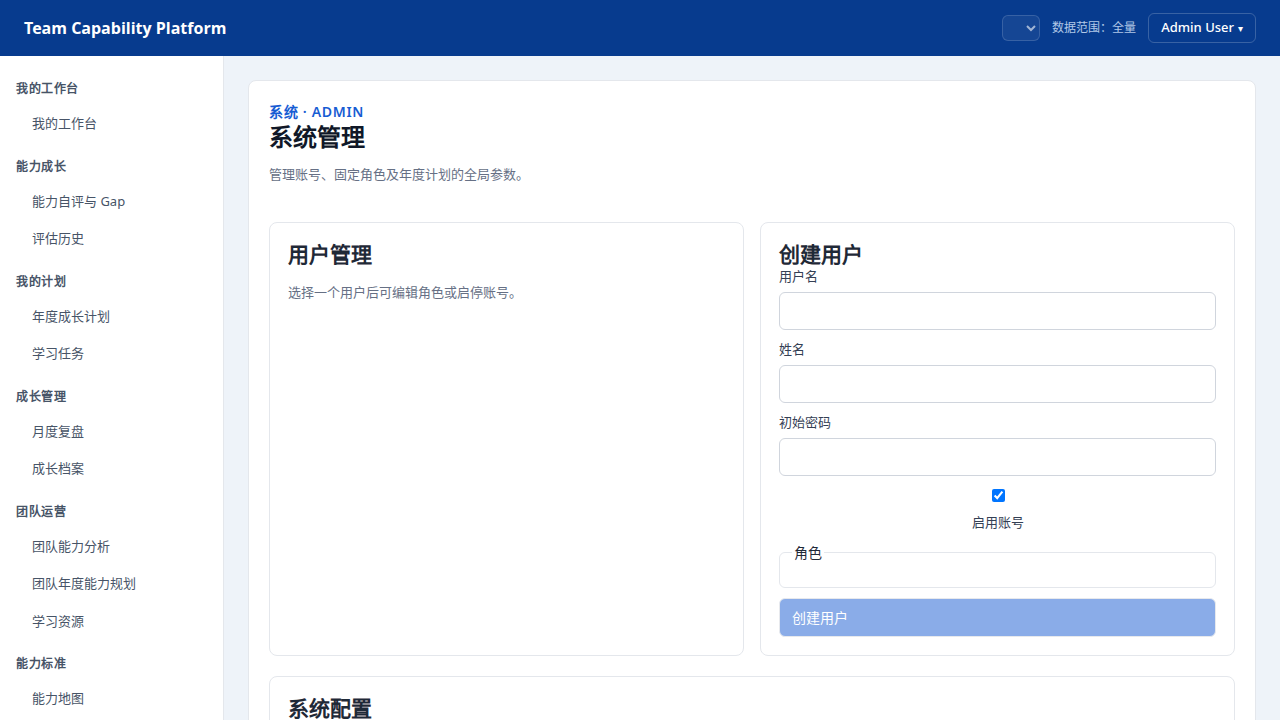
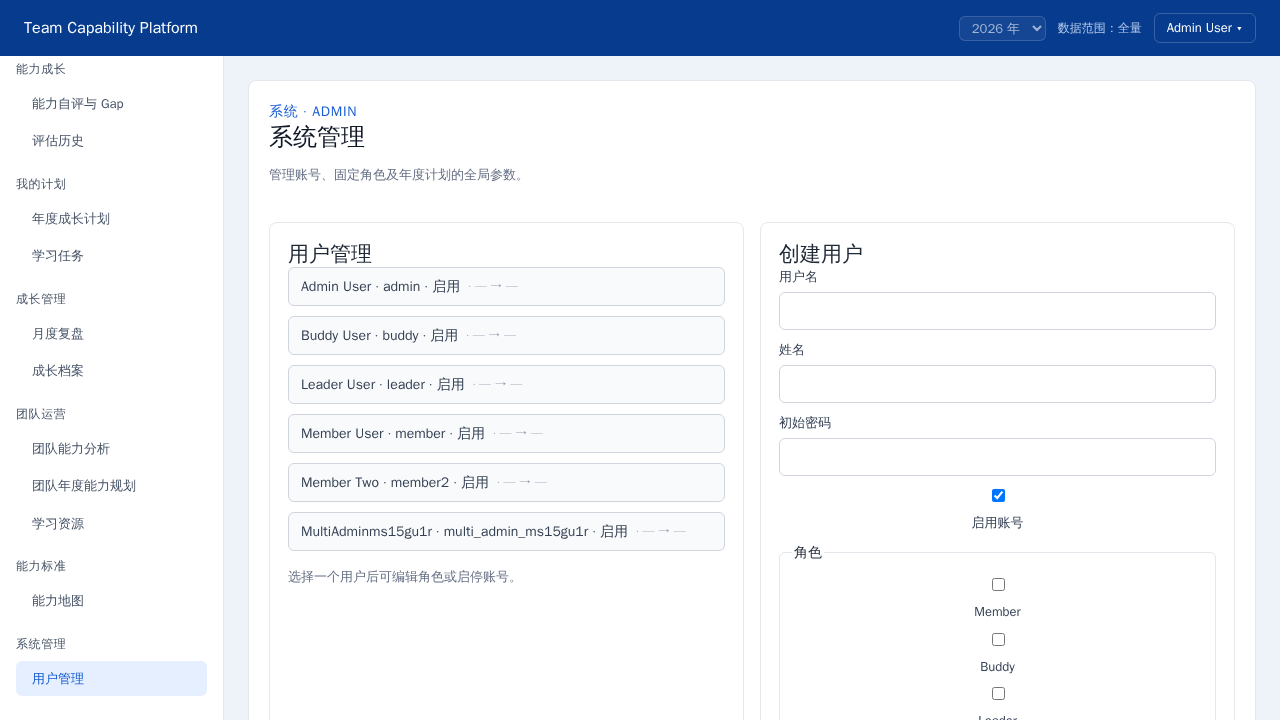
fix(issue-47): make admin sidebar independently scrollable

diff --git a/frontend/tests/e2e/features/logout-admin-nav.spec.ts b/frontend/tests/e2e/features/logout-admin-nav.spec.ts
@@ -37,32 +37,84 @@ test.describe('logout and admin navigation', () => {
   })
 
   test('Admin can navigate to system users via sidebar', async ({ page }) => {
+    // Desktop viewport at 1280×720 so sidebar content overflows
+    await page.setViewportSize({ width: 1280, height: 720 })
+
     await loginAs(page, 'admin')
     await page.goto('/capability/model')
     await expect(page.getByRole('heading', { name: '能力地图' })).toBeVisible()
 
-    // Sidebar is independently scrollable (overflow-y:auto in grid row)
     const sidebar = page.locator('.app-sidebar')
     await expect(sidebar).toBeVisible()
 
-    // Scroll the 系统管理 link into view if needed
-    const adminLink = sidebar.getByRole('link', { name: '用户管理' })
-    await adminLink.scrollIntoViewIfNeeded()
-    await expect(adminLink).toBeVisible()
-
-    // Sidebar has scrollable overflow (its scrollHeight > clientHeight when content exceeds viewport)
-    const hasScroll = await sidebar.evaluate(
-      (el) => el.scrollHeight > el.clientHeight,
+    // 1. Sidebar overflow-y is auto or scroll
+    const overflowY = await sidebar.evaluate(
+      (el) => getComputedStyle(el).overflowY,
     )
-    // Either scrollable or all content fits — both are valid configurations
-    expect(typeof hasScroll).toBe('boolean')
+    expect(['auto', 'scroll']).toContain(overflowY)
 
+    // 2. Sidebar has scrollable overflow (content taller than visible area)
+    const scrollHeight = await sidebar.evaluate((el) => el.scrollHeight)
+    const clientHeight = await sidebar.evaluate((el) => el.clientHeight)
+    expect(scrollHeight).toBeGreaterThan(clientHeight)
+
+    // 3. Record window and content positions before sidebar scrolling.
+    //    Content may legitimately be 0 when this page does not overflow.
+    const content = page.locator('.app-content')
+    const windowScrollYBefore = await page.evaluate(() => window.scrollY)
+    const contentScrollTopBefore = await content.evaluate((el) => el.scrollTop)
+
+    // 4. Actively scroll the sidebar to reveal lower items
+    await sidebar.evaluate((el) => {
+      el.scrollTop = el.scrollHeight
+    })
+
+    // 5. Sidebar scrollTop > 0 after active scroll
+    const sidebarScrollTopAfter = await sidebar.evaluate((el) => el.scrollTop)
+    expect(sidebarScrollTopAfter).toBeGreaterThan(0)
+
+    // 6. window.scrollY unchanged by sidebar scroll
+    const windowScrollYAfter = await page.evaluate(() => window.scrollY)
+    expect(windowScrollYAfter).toBe(windowScrollYBefore)
+
+    // 7. .app-content.scrollTop unchanged by sidebar scroll
+    const contentScrollTopAfter = await content.evaluate((el) => el.scrollTop)
+    expect(contentScrollTopAfter).toBe(contentScrollTopBefore)
+
+    // 8. 用户管理 is visible and clickable after sidebar scroll
+    const adminLink = sidebar.getByRole('link', { name: '用户管理' })
+    await expect(adminLink).toBeVisible()
     await adminLink.click()
-    await expect(page).toHaveURL(/\/system\/users/)
+
+    // 9. URL navigates to /system/users (exact pathname, no sub-paths)
+    await page.waitForURL((url) => url.pathname === '/system/users')
+    expect(new URL(page.url()).pathname).toBe('/system/users')
     await expect(page.getByRole('heading', { name: '系统管理' })).toBeVisible()
 
+    // 10. Re-scroll sidebar for screenshot — show 系统管理 section in view
+    await sidebar.evaluate((el) => {
+      el.scrollTop = el.scrollHeight
+    })
+    // Stability: heading, sidebar admin section label and items visible,
+    // sidebar still at scrolled position (scrollTop > 0)
+    await expect(page.getByRole('heading', { name: '系统管理' })).toBeVisible()
+    await expect(
+      page.locator('.app-sidebar-section-label').getByText('系统管理'),
+    ).toBeVisible()
+    await expect(sidebar.getByRole('link', { name: '用户管理' })).toBeVisible()
+    await expect(page.getByRole('heading', { name: '用户管理' })).toBeVisible()
+    const sidebarStillScrolled = await sidebar.evaluate((el) => el.scrollTop)
+    expect(sidebarStillScrolled).toBeGreaterThan(0)
+
+    // 11. Screenshot: sidebar with 系统管理/用户管理, /system/users content,
+    //     sidebar at scrolled position
+    await page.screenshot({
+      path: 'screenshots/admin-sidebar-nav.png',
+      fullPage: false,
+    })
+
     // Admin user menu shows role in dropdown
-    await page.getByRole('button', { name: /Admin User/ }).click()
+    await page.getByRole('button', { name: 'Admin User', exact: true }).click()
     const dropdown = page.locator('.user-menu-dropdown')
     await expect(dropdown.locator('.user-menu-roles')).toContainText('Admin')
     await expect(

diff --git a/frontend/src/styles/global.css b/frontend/src/styles/global.css
@@ -57,12 +57,12 @@ button {
 /* ── App Shell ── */
 .app-shell {
   display: grid;
-  grid-template-rows: var(--topbar-height) 1fr;
+  grid-template-rows: var(--topbar-height) minmax(0, 1fr);
   grid-template-columns: var(--sidebar-width) 1fr;
   grid-template-areas:
     'topbar topbar'
     'sidebar content';
-  min-height: 100vh;
+  height: 100vh;
   background: var(--color-shell-bg);
 }
 
@@ -236,6 +236,7 @@ button {
   background: var(--color-white);
   border-right: 1px solid var(--color-gray-200);
   overflow-y: auto;
+  min-height: 0;
 }
 
 .app-sidebar-section {
@@ -284,6 +285,7 @@ button {
   grid-area: content;
   padding: var(--space-6);
   overflow-y: auto;
+  min-height: 0;
 }
 
 /* ── Shared Components ── */

diff --git a/frontend/tests/e2e/visual/member-dashboard.spec.ts b/frontend/tests/e2e/visual/member-dashboard.spec.ts
@@ -57,7 +57,7 @@ for (const viewport of VIEWPORTS) {
     test('full page screenshot', async ({ page }) => {
       await expect(page).toHaveScreenshot(
         `member-dashboard-full-${viewport.name}.png`,
-        { maxDiffPixelRatio: 0.05, fullPage: true },
+        { maxDiffPixelRatio: 0.05, fullPage: false },
       )
     })
 
